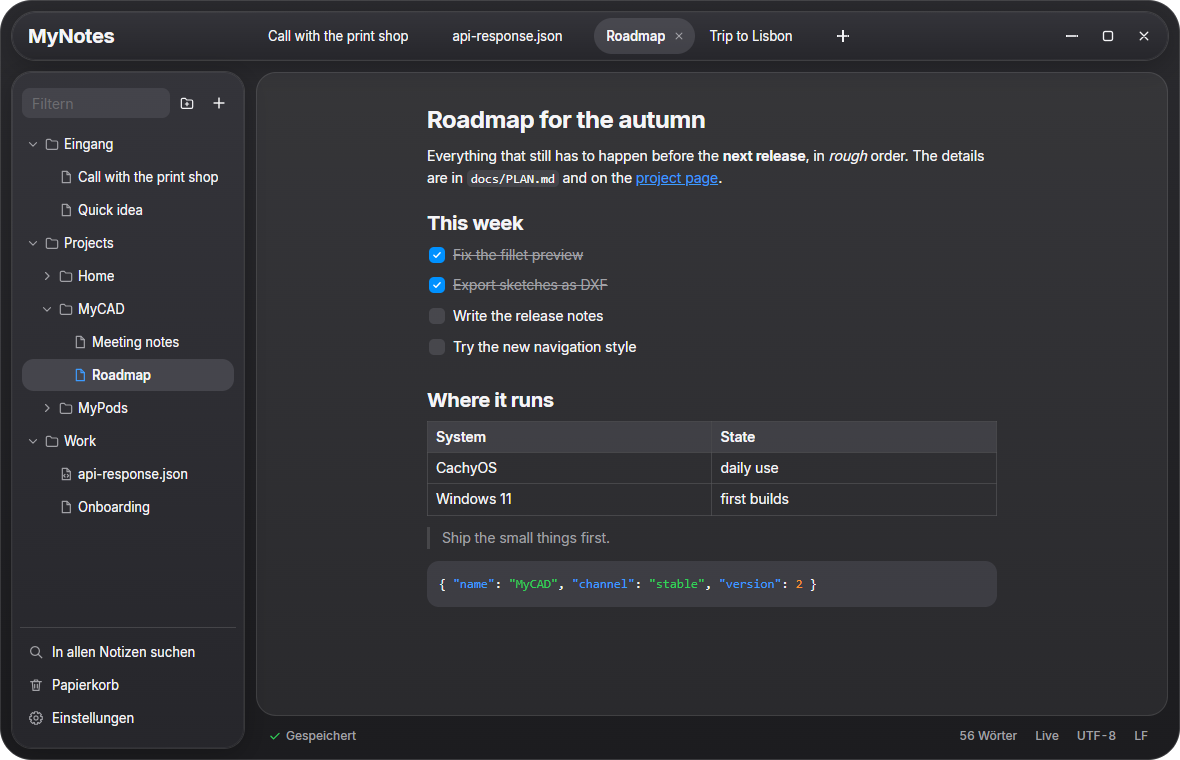
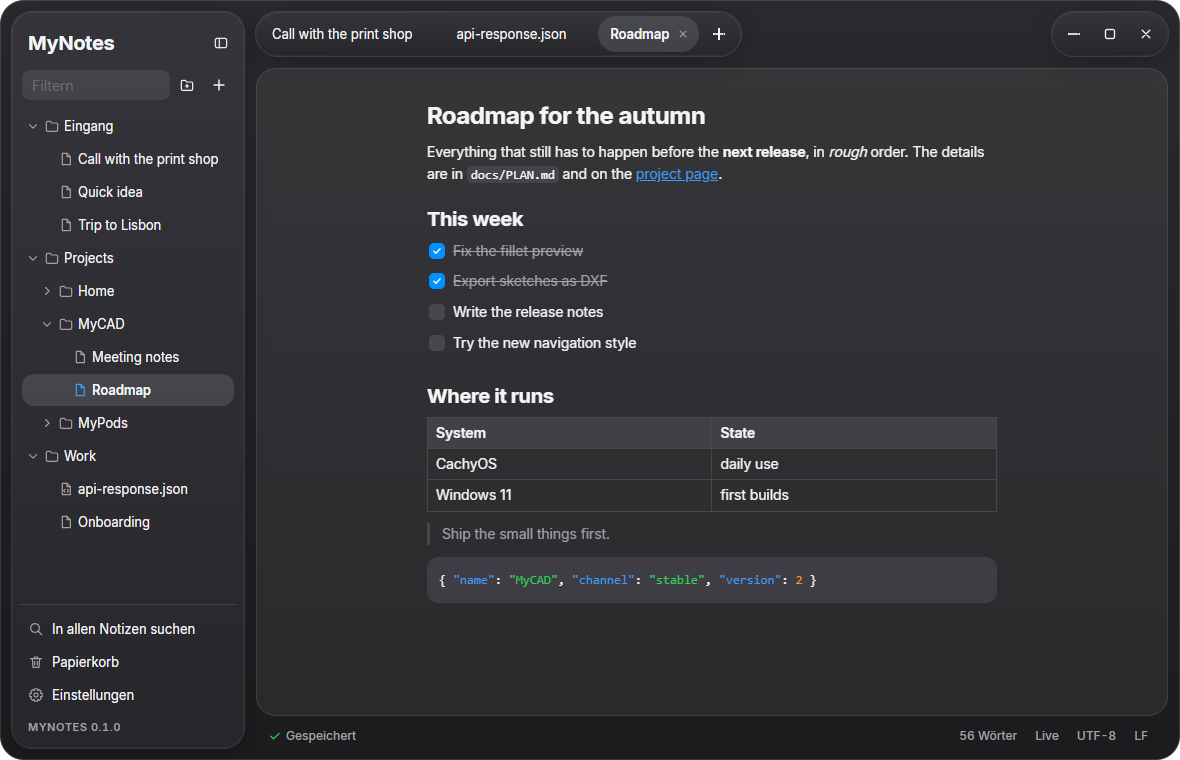
feat: the window of MyStyle § 7.4, tabs and window buttons in capsules of their own
The bar across the whole window is gone. The sidebar runs from top to bottom and carries the app's
name and, at the bottom, the version. The tabs sit in a glass capsule level with the content below,
the window buttons in another one (W-1, W-2, W-7). A new button next to the name hides the sidebar;
name and button then become a capsule at the start of the title row, and the choice is kept.

Only the free stretch of the title row and the sidebar's head move the window. The sidebar stays out
of the DOM before #tabs and the name after them in both places, because Chromium takes a scrolled
list's no-drag area unclipped. The tree is no drag area: it is a drop target with its own menu.

Text fades out at the editor card's top edge (W-3). Tokens and components are copied anew from
MyStyle, which brings size.barHeight 44 and the grey info button (C-2).

A narrower tab list now keeps the active tab in view, which so far only happened on a repaint.

diff --git a/src/renderer/style.css b/src/renderer/style.css
@@ -21,13 +21,21 @@ svg { display: block; }
   box-shadow: inset 0 0 0 1px var(--ms-color-glass-popup-border);
 }
 :root[data-maximized] #window { border-radius: 0; box-shadow: none; }
+:root[data-side-hidden] #window { grid-template-columns: minmax(0, 1fr); }
 /* GM-4: glass steps back when the window loses focus */
 :root[data-unfocused] .ms-glass::before { opacity: 0.5; }
 :root[data-unfocused] .ms-glass { --_tint: calc(var(--ms-glass-tint-a) + 0.1 + var(--ms-glass-tint-b) * min(var(--ms-glass-level), 0.5) + var(--ms-glass-tint-c) * max(var(--ms-glass-level) - 0.5, 0)); }
 
 /* ---------------------------------------------------------------- sidebar */
 /* The wiki tree is the main tool here, so it goes deeper than 2 levels and can be widened (exception to § 9.1). */
-#sidebar { display: flex; flex-direction: column; min-height: 0; padding: var(--ms-space-l) var(--ms-space-s) 14px; }
+#sidebar { grid-column: 1; grid-row: 1 / -1; display: flex; flex-direction: column; min-height: 0; padding: var(--ms-space-l) var(--ms-space-s) 14px; }
+/* The head moves the window, up to the sidebar's edge. The tree does not: it is the drop target for the top level and has its own menu, and its
+   no-drag area would reach over the head while it scrolls (see index.html). So the sidebar as a whole is not a drag area, only this. */
+#brand { flex: none; display: flex; align-items: center; justify-content: space-between; gap: var(--ms-space-s); margin: calc(-1 * var(--ms-space-l)) calc(-1 * var(--ms-space-s)) 0; padding: var(--ms-space-l) var(--ms-space-s) var(--ms-space-m) var(--ms-space-l); user-select: none; -webkit-app-region: drag; }
+/* W-1: with the sidebar away, name and button become a capsule at the start of the title row. It comes after #tabs in the DOM for the same reason. */
+#titlebar > #brand { order: -1; margin: 0; padding: 0 var(--ms-space-xs) 0 var(--ms-space-l); }
+#titlebar > #brand .round-btn--s { width: var(--ms-size-window-button); height: var(--ms-size-window-button); padding: 9px; }
+#version { margin: var(--ms-space-s) 0 0 var(--ms-space-s); }
 .side-tools { display: flex; align-items: center; gap: var(--ms-space-xxs); padding: 0 var(--ms-space-xxs) var(--ms-space-s); }
 .side-tools .ms-field { flex: 1; min-width: 0; }
 #tree { flex: 1; min-height: 0; display: flex; flex-direction: column; gap: 1px; padding: 2px; }
@@ -57,18 +65,17 @@ svg { display: block; }
 }
 .side-link:hover { background: var(--ms-color-fill-tertiary); }
 .side-link > svg { flex: none; width: var(--ms-size-icon-m); height: var(--ms-size-icon-m); color: var(--ms-color-label-secondary); }
-#side-resize { position: absolute; top: var(--ms-radius-panel); bottom: var(--ms-radius-panel); right: -6px; width: 12px; cursor: col-resize; touch-action: none; }
+#side-resize { position: absolute; top: var(--ms-radius-panel); bottom: var(--ms-radius-panel); right: -6px; width: 12px; cursor: col-resize; touch-action: none; -webkit-app-region: no-drag; }
 #side-resize:focus-visible { outline: none; background: linear-gradient(to right, transparent 5px, var(--ms-color-focus-ring) 5px, var(--ms-color-focus-ring) 7px, transparent 7px); }
 
-/* ---------------------------------------------------------------- top bar */
-#main { min-width: 0; display: flex; flex-direction: column; gap: var(--ms-space-s); }
-/* The whole bar moves the window, everything clickable opts out. */
-#topbar { grid-column: 1 / -1; display: flex; align-items: center; gap: var(--ms-size-window-inset); -webkit-app-region: drag; }
-/* Its column keeps a free stretch however many tabs are open, and the tabs start level with the editor. It comes after #tabs in the
-   DOM on purpose: Chromium takes a scrolled #tab-list's no-drag area unclipped, so it covers this column too unless a later element claims it back. */
-#app-name { order: -1; flex: none; width: var(--side-w); padding-left: var(--ms-space-l); user-select: none; -webkit-app-region: drag; }
-#tabs { flex: 1; min-width: 0; display: flex; align-items: center; gap: var(--ms-space-xxs); height: 100%; }
-#tab-list { display: flex; align-items: center; gap: var(--ms-space-xxs); min-width: 0; height: 100%; overflow-x: auto; scrollbar-width: none; -webkit-app-region: no-drag; }
+/* ---------------------------------------------------------------- title row (§ 7.3): no bar of its own, level with the editor below */
+#main { grid-column: -2 / -1; min-width: 0; display: flex; flex-direction: column; gap: var(--ms-space-s); }
+/* The free stretch moves the window, everything clickable opts out. */
+#titlebar { grid-column: -2 / -1; min-width: 0; display: flex; align-items: stretch; gap: var(--ms-size-window-inset); -webkit-app-region: drag; }
+#tabs, #window-buttons { display: flex; align-items: center; gap: var(--ms-space-xxs); padding-inline: var(--ms-space-xs); }
+#tabs { flex: 0 1 auto; min-width: 0; }
+#tab-list { display: flex; align-items: center; gap: var(--ms-space-xxs); min-width: 0; height: 100%; overflow-x: auto; scrollbar-width: none; border-radius: var(--ms-radius-capsule); -webkit-app-region: no-drag; }
+#window-buttons { flex: none; gap: 0; margin-left: auto; }
 .tab {
   flex: none; display: flex; align-items: center; gap: var(--ms-space-xxs); max-width: 220px; height: var(--ms-size-window-button); padding: 0 var(--ms-space-xs) 0 var(--ms-space-m);
   border-radius: var(--ms-radius-capsule);
@@ -86,7 +93,6 @@ svg { display: block; }
 .icon-btn { flex: none; display: grid; place-items: center; width: var(--ms-size-window-button); height: var(--ms-size-window-button); padding: 9px; border: 0; border-radius: var(--ms-radius-capsule); background: transparent; -webkit-app-region: no-drag; }
 .icon-btn:hover { background: var(--ms-color-fill-tertiary); }
 .side-tools .icon-btn { width: var(--ms-size-control-desktop); height: var(--ms-size-control-desktop); padding: 7px; }
-#window-buttons { flex: none; display: flex; align-items: center; padding: 0 6px; }
 .round-btn { flex: none; display: grid; place-items: center; width: var(--ms-size-window-button); height: var(--ms-size-window-button); padding: 9px; border: 0; border-radius: var(--ms-radius-capsule); background: transparent; -webkit-app-region: no-drag;
   transition: background-color var(--ms-motion-duration-hover) var(--ms-motion-easing-standard); }
 .round-btn:hover { background: var(--ms-color-fill-tertiary); }
@@ -108,6 +114,8 @@ svg { display: block; }
 .pane { position: absolute; inset: 0; display: flex; flex-direction: column; }
 .pane .cm-editor { flex: 1; min-height: 0; }
 .prose-host { flex: 1; min-height: 0; }
+/* W-3: text fades out under the card's top edge instead of being cut off */
+.prose-host, .pane .cm-scroller { mask-image: linear-gradient(to bottom, rgb(0 0 0 / 0.15), #000 14px); }
 .prose { max-width: 70ch; min-height: 100%; margin: 0 auto; padding: var(--ms-space-xxl) var(--ms-space-xl) var(--ms-space-xxxl); outline: none; font-size: var(--editor-size); line-height: 1.6; overflow-wrap: anywhere; }
 .prose > :first-child { margin-top: 0; }
 .prose p { margin: 0 0 0.6em; }

diff --git a/src/renderer/app.js b/src/renderer/app.js
@@ -778,6 +778,23 @@ function applySettings() {
   html.style.setProperty('--editor-size', `${s.fontSize}px`);
   html.style.setProperty('--side-w', `${s.sidebarWidth}px`);
   for (const t of state.tabs) t.editor?.setWrap(s.wrap);
+  placeBrand(s.sidebarHidden);
+}
+
+/** W-1: the app's name and the sidebar button live in the sidebar, or in a capsule of their own in the title row while it is away. */
+function placeBrand(hidden) {
+  const brand = $('brand');
+  const button = $('side-toggle');
+  const focused = document.activeElement === button; // moving a node takes the focus away from it
+  document.documentElement.toggleAttribute('data-side-hidden', hidden);
+  $('sidebar').hidden = hidden;
+  brand.classList.toggle('ms-glass', hidden);
+  brand.classList.toggle('ms-glass--capsule', hidden);
+  if (hidden) $('tabs').after(brand); else $('sidebar').prepend(brand);
+  const label = hidden ? 'Seitenleiste einblenden' : 'Seitenleiste ausblenden';
+  button.setAttribute('aria-label', label);
+  button.title = label;
+  if (focused) button.focus();
 }
 
 function showSettings() {
@@ -966,6 +983,8 @@ function wire() {
   iconize('win-min', 'minus');
   iconize('win-max', 'maximize');
   iconize('win-close', 'close');
+  iconize('side-toggle', 'sidebar');
+  $('side-toggle').addEventListener('click', () => setSetting('sidebarHidden', !state.settings.sidebarHidden));
   const sideLink = (id, name, label, run) => { const b = $(id); b.innerHTML = icon(name); b.append(label); b.addEventListener('click', run); };
   sideLink('btn-search', 'search', 'In allen Notizen suchen', showSearch);
   sideLink('btn-trash', 'trash', 'Papierkorb', showTrash);
@@ -983,6 +1002,8 @@ function wire() {
     e.preventDefault();
     e.currentTarget.scrollLeft += e.deltaY;
   }, { passive: false });
+  // A narrower list (window, sidebar width) must not push the active tab out of view. Scrolling with the wheel doesn't change the width, so it stays free.
+  new ResizeObserver(() => $('tab-list').querySelector('.is-active')?.scrollIntoView({ block: 'nearest', inline: 'nearest' })).observe($('tab-list'));
   $('new-folder').addEventListener('click', () => createFolderIn(''));
   $('filter').addEventListener('input', (e) => { state.filter = e.target.value; paintTree(); });
   $('win-min').addEventListener('click', () => api.win('minimize'));
@@ -1051,6 +1072,7 @@ async function start() {
   wire();
   state.settings = await api.settings();
   applySettings();
+  $('version').textContent = `MyNotes ${await api.version()}`;
   const session = await api.session();
   state.expanded = new Set(session?.expanded ?? ['Eingang']);
   state.closed = session?.closed ?? [];

diff --git a/src/renderer/index.html b/src/renderer/index.html
@@ -8,13 +8,13 @@
 </head>
 <body>
 <div id="window">
-  <header id="topbar" class="ms-glass ms-glass--capsule">
-    <div id="tabs" role="tablist" aria-label="Offene Notizen">
+  <!-- #titlebar stays before #sidebar: Chromium takes a scrolled #tab-list's no-drag area unclipped, so it also covers the sidebar's head unless that comes later. -->
+  <header id="titlebar">
+    <div id="tabs" class="ms-glass ms-glass--capsule" role="tablist" aria-label="Offene Notizen">
       <div id="tab-list" class="ms-scroll"></div>
-      <button id="tab-new" class="icon-btn" aria-label="Neuer Tab" title="Neuer Tab (Strg+T). Rechtsklick: mehr öffnen"></button>
+      <button id="tab-new" class="round-btn" aria-label="Neuer Tab" title="Neuer Tab (Strg+T). Rechtsklick: mehr öffnen"></button>
     </div>
-    <span id="app-name" class="ms-title2">MyNotes</span>
-    <div id="window-buttons">
+    <div id="window-buttons" class="ms-glass ms-glass--capsule">
       <button id="win-min" class="round-btn" aria-label="Minimieren" title="Minimieren"></button>
       <button id="win-max" class="round-btn" aria-label="Maximieren" title="Maximieren"></button>
       <button id="win-close" class="round-btn ms-button--close" aria-label="Schließen" title="Schließen"></button>
@@ -22,6 +22,10 @@
   </header>
 
   <aside id="sidebar" class="ms-glass" aria-label="Notizen">
+    <div id="brand">
+      <span class="ms-title2">MyNotes</span>
+      <button id="side-toggle" class="round-btn round-btn--s"></button>
+    </div>
     <div class="side-tools">
       <input id="filter" class="ms-field" type="search" placeholder="Filtern" aria-label="Notizen filtern">
       <button id="new-folder" class="icon-btn" aria-label="Neuer Ordner" title="Neuer Ordner"></button>
@@ -32,6 +36,7 @@
       <button id="btn-search" class="side-link"></button>
       <button id="btn-trash" class="side-link"></button>
       <button id="btn-settings" class="side-link"></button>
+      <span id="version" class="ms-section ms-num"></span>
     </div>
     <div id="side-resize" role="separator" aria-orientation="vertical" aria-label="Breite der Seitenleiste" tabindex="0"></div>
   </aside>

diff --git a/src/main/index.js b/src/main/index.js
@@ -21,7 +21,7 @@ const settingsFile = path.join(dataDir, 'settings.json');
 const sessionFile = path.join(dataDir, 'session.json');
 const DEFAULTS = {
   vault: process.env.MYNOTES_VAULT ?? path.join(os.homedir(), 'MyNotes'), backup: null, theme: 'auto', contrast: false,
-  transparency: false, motion: false, glass: 0.5, fontSize: 14, wrap: true, jsonIndent: 2, sidebarWidth: 232, bounds: null, maximized: false,
+  transparency: false, motion: false, glass: 0.5, fontSize: 14, wrap: true, jsonIndent: 2, sidebarWidth: 232, sidebarHidden: false, bounds: null, maximized: false,
 };
 
 let settings;
@@ -188,8 +188,9 @@ function registerIpc() {
   handle('saveSession', (s) => atomicWrite(sessionFile, Buffer.from(JSON.stringify(s))));
 
   handle('settings', () => settings);
+  handle('version', () => app.getVersion());
   handle('setSettings', async (patch) => {
-    for (const k of ['theme', 'contrast', 'transparency', 'motion', 'glass', 'fontSize', 'wrap', 'jsonIndent', 'sidebarWidth']) {
+    for (const k of ['theme', 'contrast', 'transparency', 'motion', 'glass', 'fontSize', 'wrap', 'jsonIndent', 'sidebarWidth', 'sidebarHidden']) {
       if (k in patch) settings[k] = patch[k];
     }
     await saveSettings();

diff --git a/src/renderer/mystyle/tokens.css b/src/renderer/mystyle/tokens.css
@@ -24,7 +24,7 @@
   --ms-space-xxl: 32px;
   --ms-space-xxxl: 48px;
   --ms-size-window-inset: 12px;
-  --ms-size-bar-height: 48px;
+  --ms-size-bar-height: 44px;
   --ms-size-window-button: 36px;
   --ms-size-sidebar-width: 232px;
   --ms-size-content-max-width: 560px;
@@ -212,6 +212,7 @@
   --ms-glass-tint-text-a: 0.72;
   --ms-glass-tint-text-b: 0.16;
   --ms-glass-tint-text-c: 0.16;
+  --ms-glass-note-tint: 0.3;
 }
 
 /* dark: follows the system unless data-theme forces a mode */
@@ -284,6 +285,7 @@
     --ms-glass-tint-text-a: 0.66;
     --ms-glass-tint-text-b: 0.18;
     --ms-glass-tint-text-c: 0.18;
+    --ms-glass-note-tint: 0.15;
   }
 }
 :root[data-theme="dark"] {
@@ -354,6 +356,7 @@
   --ms-glass-tint-text-a: 0.66;
   --ms-glass-tint-text-b: 0.18;
   --ms-glass-tint-text-c: 0.18;
+  --ms-glass-note-tint: 0.15;
 }
 
 /* Increase Contrast */

diff --git a/src/renderer/icons.js b/src/renderer/icons.js
@@ -21,6 +21,7 @@ const paths = {
   trash: stroke('<path d="M4 7h16M9.5 7V4.5h5V7M6.5 7l1 13h9l1-13M10 11v5.5M14 11v5.5"/>'),
   maximize: stroke('<rect x="6" y="6" width="12" height="12" rx="2.5"/>'),
   restore: stroke('<rect x="5" y="9" width="10" height="10" rx="2.5"/><path d="M9 5.5h7a3 3 0 0 1 3 3v7"/>'),
+  sidebar: stroke('<rect x="3.5" y="5" width="17" height="14" rx="3"/><path d="M9.5 5v14"/>'),
   chevronRight: stroke('<path d="M9.5 6l6 6-6 6"/>', 2),
   chevronDown: stroke('<path d="M6 9.5l6 6 6-6"/>', 2),
   file: stroke('<path d="M6.5 3.5h7L18.5 8.5v12h-12z"/><path d="M13.5 3.5v5h5"/>'),

diff --git a/src/renderer/mystyle/components.css b/src/renderer/mystyle/components.css
@@ -149,7 +149,7 @@ body { margin: 0; }
 }
 .ms-icon-tile > svg { width: 16px; height: 16px; }
 .ms-icon { width: 16px; height: 16px; flex: none; }
-.ms-info { color: var(--ms-color-accent-text); width: 16px; height: 16px; }
+.ms-info { color: var(--ms-color-label-secondary); width: 16px; height: 16px; }
 
 .ms-chip {
   display: inline-flex; align-items: center; height: var(--ms-size-chip); padding: 0 10px;

diff --git a/README.md b/README.md
@@ -60,7 +60,7 @@ Closing a tab never asks anything, and `Ctrl+Shift+T` brings it back.
 
 The sidebar shows your notes folder as a tree, with folders and subfolders as deep as you like. Drag notes and folders to move or sort them, like the page tree in Confluence. Your order is kept in `.mynotes/order.json`, so it travels with the folder.
 
-Moving and renaming never overwrite anything: a taken name gets a number. Open tabs and the history follow the file. The filter narrows the tree as you type, `Ctrl+P` opens a note by name and `Ctrl+Shift+F` searches all notes, with regular expressions if you want them.
+Moving and renaming never overwrite anything: a taken name gets a number. Open tabs and the history follow the file. The filter narrows the tree as you type, `Ctrl+P` opens a note by name and `Ctrl+Shift+F` searches all notes, with regular expressions if you want them. The button next to the name hides the sidebar when you want the whole window for writing.
 
 You choose the notes folder in the settings. Switching copies everything to the new folder and checks every file against a checksum, and the old folder stays as it is.
 
